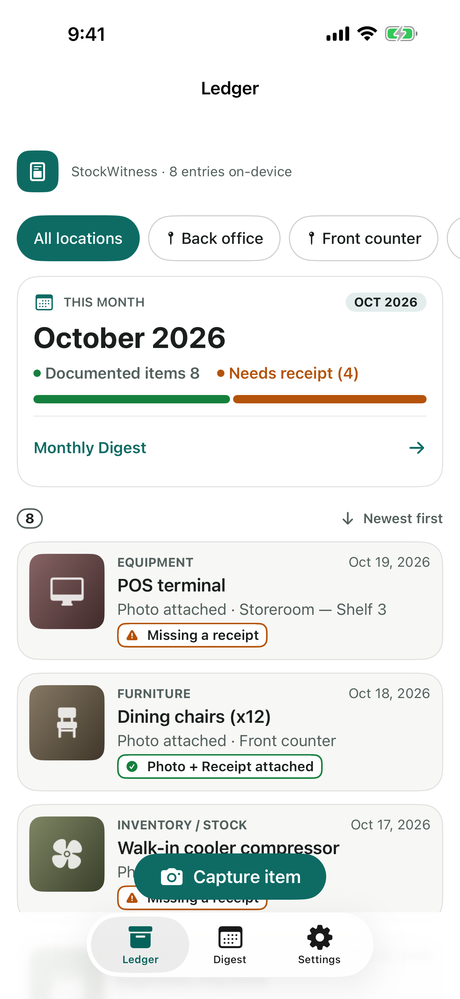
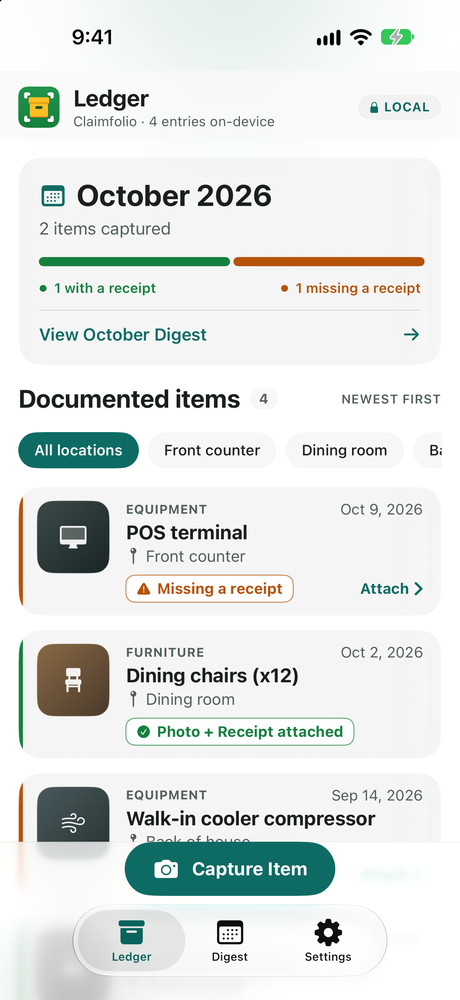
site: launch pack edition 9 -- current design pictures, a terms page, claims matched to the app
- Home: the three pictures are now the design's current iOS screens under the name Claimfolio
  (the old ones were shot before the rename and showed "StockWitness"); one store card per
  platform; "Save and add another", receipts by importing a file, the digest's no-gaps line;
  the three proof points; "uploads nothing" in place of "only buying or restoring the unlock
  talks to the store" (the app also reads the store's age signal and shows its rating prompt).
- Support: export makes both files; offline answer names the one step that needs the store.
- Privacy (effective 21 October 2026): adds the iPhone search index and the system event log.
- Deleting your data: items also leave the iPhone search index.
- New /terms: the App Store's standard licence and Google Play's terms; no terms of our own.

diff --git a/index.html b/index.html
@@ -26,32 +26,39 @@
 <main id="main"><div class="wrap">
 <h1>Keep your proof together, before you need it.</h1>
 <p class="lede">Claimfolio keeps a dated record of your business&rsquo;s equipment and stock &mdash; a photo, the date, and the receipt when you have it &mdash; so that after a loss you can show your insurer what you had, from evidence instead of memory.</p>
-<p class="muted">Coming to the App Store (iPhone and iPad, iOS 18 or later) and Google Play (Android 8 or later). Not yet released.</p>
+<ul class="cta" aria-label="Where to get Claimfolio">
+<li><strong>App Store</strong><span>iPhone and iPad, iOS 18 or later</span><span class="muted">Not yet released</span></li>
+<li><strong>Google Play</strong><span>Android 8.0 or later</span><span class="muted">Not yet released</span></li>
+</ul>
 
 <h2>What it does</h2>
 <ul>
-<li><strong>Capture</strong> an item with a photo, its name, a category, where it is kept and the date. Attach the receipt now, or skip it and add it later.</li>
-<li><strong>The ledger</strong> lists every item, newest first, and filters by location. Items without a receipt are marked.</li>
-<li><strong>The monthly digest</strong> shows which of the month&rsquo;s items are still missing a receipt, oldest gap first.</li>
-<li><strong>Export</strong> the whole ledger as a PDF (one page and photo per item) or a CSV, in one tap, and choose where it goes.</li>
+<li><strong>Capture</strong> an item with a photo, its name, a category, where it is kept and the date. Attach the receipt now, with the camera or by importing a file, or skip it and add it later. Recording a whole shelf? <em>Save and add another</em> keeps the category, location and date, and opens the camera for the next item.</li>
+<li><strong>The ledger</strong> lists every item, newest first, and filters by location. Items without a receipt are marked &ldquo;Missing a receipt&rdquo;.</li>
+<li><strong>The monthly digest</strong> shows which of the month&rsquo;s items are still missing a receipt, oldest first, and says so when nothing is missing.</li>
+<li><strong>Export</strong> the whole ledger in one tap: a PDF (a page and photo for each item, plus its receipt) and a CSV. You choose where they go.</li>
 </ul>
 
 <div class="shots">
-<figure><img src="img/01-ledger.png" alt="The Ledger screen: entries with photos, locations and a missing-receipt marker" width="460" height="999" loading="lazy"><figcaption>The ledger, filtered by location</figcaption></figure>
-<figure><img src="img/02-capture.png" alt="The Capture screen: a dated photo and the item name, with Save entry below" width="460" height="999" loading="lazy"><figcaption>Capture an item</figcaption></figure>
-<figure><img src="img/03-digest.png" alt="The Monthly Digest screen: four entries missing a receipt, four with one" width="460" height="999" loading="lazy"><figcaption>The month&rsquo;s missing receipts</figcaption></figure>
+<figure><img src="img/01-ledger.png" alt="The ledger: October 2026 with 2 items captured, 1 with a receipt and 1 missing a receipt, location filters, and a POS terminal marked Missing a receipt" width="460" height="1000" loading="lazy"><figcaption>The ledger, with its location filter</figcaption></figure>
+<figure><img src="img/02-capture.png" alt="New Entry: a dated photo of an espresso machine, the item name and category, with Save and add another beside Save entry" width="460" height="1000" loading="lazy"><figcaption>Capture an item</figcaption></figure>
+<figure><img src="img/03-digest.png" alt="The monthly digest for October 2026: 1 missing a receipt and 1 receipt attached, with the POS terminal as the priority gap" width="460" height="1000" loading="lazy"><figcaption>The month&rsquo;s missing receipts</figcaption></figure>
 </div>
-<p class="muted">Screenshots show sample entries.</p>
+<p class="muted">The screens show sample entries.</p>
 
-<h2>Free, then one $4.99 unlock, and on your phone only</h2>
-<p>Claimfolio is free to download, and the free version does everything for up to 10 entries. One $4.99 in-app purchase removes the limit for good: pay once, no subscription, no advertising, and nothing you have saved is ever locked. There is no account and no sign-in. The app itself sends nothing anywhere (only buying or restoring the unlock talks to the App Store or Google Play); your ledger stays on your phone and is included in your phone&rsquo;s own backup if you have backup turned on (see the <a href="privacy/">privacy policy</a>).</p>
+<h2>Three things you can check</h2>
+<ul>
+<li><strong>No subscription.</strong> Claimfolio is free to download, and the free version does everything for up to 10 entries. One $4.99 in-app purchase removes the limit for good. It is the only thing sold, and there is no advertising.</li>
+<li><strong>No account, nothing uploaded.</strong> Nothing asks you to sign in, and the app uploads nothing: your ledger stays on your phone, and is included in your phone&rsquo;s own backup if backup is on (see the <a href="privacy/">privacy policy</a>). It works in Airplane Mode. Buying or restoring the unlock goes through the App Store or Google Play.</li>
+<li><strong>Your records stay yours.</strong> Viewing, editing, deleting and exporting what you have saved are never locked, even at the free limit.</li>
+</ul>
 
 <h2>What it does not do</h2>
 <p>Claimfolio never estimates what a claim is worth and never contacts your insurer. You review and submit every claim yourself. It is a record-keeping tool, not insurance or advice.</p>
 
 </div></main>
 <footer><div class="wrap">
-<a href="privacy/">Privacy policy</a><a href="support/">Support</a><a href="delete-data/">Deleting your data</a>
+<a href="privacy/">Privacy policy</a><a href="support/">Support</a><a href="delete-data/">Deleting your data</a><a href="terms/">Terms</a>
 <p>Claimfolio is made by 8086 LLC, New York. &copy; 2026 8086 LLC.</p>
 </div></footer>
 </body>

diff --git a/terms/index.html b/terms/index.html
@@ -1,0 +1,52 @@
+<!DOCTYPE html>
+<html lang="en">
+<head>
+<meta charset="utf-8">
+<meta name="viewport" content="width=device-width, initial-scale=1">
+<title>Terms of use — Claimfolio</title>
+<meta name="description" content="The terms Claimfolio is offered under: the App Store's and Google Play's own, with no terms of 8086 LLC's own added.">
+<meta name="color-scheme" content="light dark">
+<meta property="og:title" content="Terms of use — Claimfolio">
+<meta property="og:description" content="The terms Claimfolio is offered under: the App Store's and Google Play's own, with no terms of 8086 LLC's own added.">
+<meta property="og:image" content="https://soloinc-projects.github.io/stockwitness/og-image.png">
+<link rel="canonical" href="https://soloinc-projects.github.io/stockwitness/terms/">
+<link rel="icon" href="../favicon.svg" type="image/svg+xml">
+<link rel="apple-touch-icon" href="../apple-touch-icon.png">
+<link rel="stylesheet" href="../style.css">
+</head>
+<body>
+<a class="skip" href="#main">Skip to content</a>
+<header><div class="wrap">
+<a class="brand" href="../"><img src="../favicon.svg" alt="" width="32" height="32">Claimfolio</a>
+<nav aria-label="Site"><a href="../privacy/">Privacy</a><a href="../support/">Support</a></nav>
+</div></header>
+<main id="main"><div class="wrap">
+<h1>Terms of use</h1>
+<p class="muted">Claimfolio, by 8086 LLC &middot; 21 October 2026</p>
+
+<h2>Which terms apply</h2>
+<ul>
+<li><strong>From the App Store:</strong> Claimfolio is licensed to you under Apple&rsquo;s standard <a href="https://www.apple.com/legal/internet-services/itunes/dev/stdeula/">Licensed Application End User License Agreement</a>.</li>
+<li><strong>From Google Play:</strong> your download and purchase are covered by the <a href="https://play.google.com/about/play-terms/">Google Play Terms of Service</a>.</li>
+</ul>
+<p>8086 LLC adds no terms of its own.</p>
+
+<h2>The one purchase</h2>
+<p>Claimfolio is free to download, and the free version holds up to 10 entries with every feature. The one thing sold is the $4.99 Claimfolio Unlock, a one-time in-app purchase that removes the limit. There is no subscription. Apple or Google sells it and handles any refund: see <a href="https://support.apple.com/en-us/118223">Apple&rsquo;s refund page</a> or <a href="https://support.google.com/googleplay/answer/2479637">Google Play&rsquo;s refund policies</a>.</p>
+
+<h2>What Claimfolio is, and is not</h2>
+<p>Claimfolio is a record-keeping tool. It never estimates what a claim is worth and never contacts your insurer. It is not insurance, and it is not legal or financial advice. Any value you enter is your own estimate, and you review and submit every claim yourself.</p>
+
+<h2>Your records</h2>
+<p>What you capture stays on your phone and is yours. Viewing, editing, deleting and exporting it are never locked. See the <a href="../privacy/">privacy policy</a> and <a href="../delete-data/">Deleting your data</a>.</p>
+
+<h2>Contact</h2>
+<p><a href="mailto:support@8086.llc">support@8086.llc</a>, 8086 LLC, 372 5th Ave, New York, NY 10018, United States.</p>
+
+</div></main>
+<footer><div class="wrap">
+<a href="../privacy/">Privacy policy</a><a href="../support/">Support</a><a href="../delete-data/">Deleting your data</a><a href="../terms/">Terms</a>
+<p>Claimfolio is made by 8086 LLC, New York. &copy; 2026 8086 LLC.</p>
+</div></footer>
+</body>
+</html>

diff --git a/support/index.html b/support/index.html
@@ -28,13 +28,13 @@
 <h3>Does Claimfolio cost anything?</h3>
 <p>It is free to download, and the free version holds up to 10 entries with every feature, export included. One $4.99 in-app purchase removes the limit for good. There is no subscription and no advertising. If you change phones, tap Restore Purchases in Settings (same Apple Account or Google account). Viewing, editing, deleting and exporting what you have saved are never locked.</p>
 <h3>Where does my data go?</h3>
-<p>It stays on your phone. The app sends nothing anywhere; only buying or restoring the unlock talks to the App Store or Google Play. If your phone&rsquo;s backup is on, the ledger is included in your own iCloud or Google backup. See the <a href="../privacy/">privacy policy</a>.</p>
+<p>It stays on your phone. The app uploads nothing. If your phone&rsquo;s backup is on, the ledger is included in your own iCloud or Google backup. See the <a href="../privacy/">privacy policy</a>.</p>
 <h3>What if I lose my phone?</h3>
 <p>If your phone&rsquo;s backup was on, restoring that backup to a new phone brings your ledger back. If it was off, the ledger is lost with the phone, so export a PDF or CSV from Settings from time to time and keep it somewhere safe.</p>
 <h3>Does it work offline?</h3>
-<p>Yes, always. It never needs a connection.</p>
+<p>Yes. Everything works in Airplane Mode except buying or restoring the unlock, which needs the App Store or Google Play.</p>
 <h3>How do I export?</h3>
-<p>Settings &rsaquo; Export, then choose PDF (one page and photo per item) or CSV, and choose where to save or send it.</p>
+<p>In Settings, tap Export my ledger. Claimfolio makes a PDF (a page and photo for each item, plus its receipt) and a CSV, and the share sheet lets you save or send them.</p>
 <h3>Can I move my ledger to another phone?</h3>
 <p>Through your phone&rsquo;s own backup and restore. An exported PDF or CSV is a record to keep or send; the app does not import it.</p>
 <h3>Will it help me with an insurance claim?</h3>
@@ -44,7 +44,7 @@
 
 </div></main>
 <footer><div class="wrap">
-<a href="../privacy/">Privacy policy</a><a href="../support/">Support</a><a href="../delete-data/">Deleting your data</a>
+<a href="../privacy/">Privacy policy</a><a href="../support/">Support</a><a href="../delete-data/">Deleting your data</a><a href="../terms/">Terms</a>
 <p>Claimfolio is made by 8086 LLC, New York. &copy; 2026 8086 LLC.</p>
 </div></footer>
 </body>

diff --git a/privacy/index.html b/privacy/index.html
@@ -22,7 +22,7 @@
 </div></header>
 <main id="main"><div class="wrap">
 <h1>Privacy policy</h1>
-<p class="muted">Claimfolio, by 8086 LLC &middot; Effective 18 October 2026</p>
+<p class="muted">Claimfolio, by 8086 LLC &middot; Effective 21 October 2026</p>
 <div class="card"><p><strong>In short:</strong> Claimfolio keeps your inventory on your phone. It has no account and no server, and it never sends your ledger to us or anyone else. 8086 LLC receives nothing from the app.</p></div>
 
 <h2>What the app keeps, and where</h2>
@@ -32,6 +32,8 @@
 <tr><td>Item names, categories, dates, locations you type, notes, and any value you enter yourself</td><td>In the app&rsquo;s private storage on your phone</td></tr>
 <tr><td>Photos of items and receipt images you take or choose</td><td>In the app&rsquo;s private storage on your phone. Photos you choose from your library are copied in; the app does not read the rest of your library</td></tr>
 <tr><td>A short technical report if the app crashes</td><td>In the app&rsquo;s private storage on your phone. It is never sent</td></tr>
+<tr><td>On iPhone, each item&rsquo;s name and category</td><td>In the iPhone&rsquo;s own search index, so Spotlight can find an item. Removed when you delete the item or the app. It never leaves the phone</td></tr>
+<tr><td>Short notes of what happened, such as &ldquo;entry saved&rdquo;, with counts only &mdash; never an item&rsquo;s name, value, notes, location or your age range</td><td>In your phone&rsquo;s own system log, which the system clears on its own. The app never sends it</td></tr>
 <tr><td>Your age range, where the store provides it</td><td>Read from Apple&rsquo;s or Google&rsquo;s age signal at launch and held in memory only; never stored, exported or sent</td></tr>
 </tbody>
 </table>
@@ -57,7 +59,7 @@
 
 </div></main>
 <footer><div class="wrap">
-<a href="../privacy/">Privacy policy</a><a href="../support/">Support</a><a href="../delete-data/">Deleting your data</a>
+<a href="../privacy/">Privacy policy</a><a href="../support/">Support</a><a href="../delete-data/">Deleting your data</a><a href="../terms/">Terms</a>
 <p>Claimfolio is made by 8086 LLC, New York. &copy; 2026 8086 LLC.</p>
 </div></footer>
 </body>

diff --git a/delete-data/index.html b/delete-data/index.html
@@ -26,7 +26,7 @@
 <h2>On your phone</h2>
 <ul>
 <li>To delete one item: open it in the ledger and choose Delete.</li>
-<li>To delete everything: delete the Claimfolio app. Its private storage &mdash; every entry, photo, receipt image, note and crash report &mdash; is removed with it.</li>
+<li>To delete everything: delete the Claimfolio app. Its private storage &mdash; every entry, photo, receipt image, note and crash report &mdash; is removed with it. On iPhone, the items also leave the phone&rsquo;s search index.</li>
 </ul>
 <h2>In your phone&rsquo;s backup</h2>
 <p>If iCloud Backup or Android backup was on, a copy of the ledger may be in that backup. Delete it from your iCloud or Google account&rsquo;s backups.</p>
@@ -34,7 +34,7 @@
 
 </div></main>
 <footer><div class="wrap">
-<a href="../privacy/">Privacy policy</a><a href="../support/">Support</a><a href="../delete-data/">Deleting your data</a>
+<a href="../privacy/">Privacy policy</a><a href="../support/">Support</a><a href="../delete-data/">Deleting your data</a><a href="../terms/">Terms</a>
 <p>Claimfolio is made by 8086 LLC, New York. &copy; 2026 8086 LLC.</p>
 </div></footer>
 </body>

diff --git a/style.css b/style.css
@@ -17,6 +17,8 @@ h2{font-size:1.25rem;margin:2rem 0 .5rem}
 .lede{font-size:1.2rem;color:var(--ink)}
 .muted{color:var(--ink2)}
 .card{background:var(--surface);border-radius:16px;padding:1rem 1.25rem;margin:1rem 0}
+.cta{list-style:none;padding:0;margin:1rem 0;display:grid;grid-template-columns:repeat(auto-fit,minmax(14rem,1fr));gap:.75rem}
+.cta li{background:var(--surface);border-radius:16px;padding:.75rem 1rem;display:flex;flex-direction:column}
 .shots{display:grid;grid-template-columns:repeat(auto-fit,minmax(10rem,1fr));gap:1rem;margin:1.5rem 0}
 .shots figure{margin:0}.shots img{width:100%;height:auto;border-radius:16px;border:1px solid var(--surface)}
 .shots figcaption{font-size:.95rem;color:var(--ink2);margin-top:.25rem}
